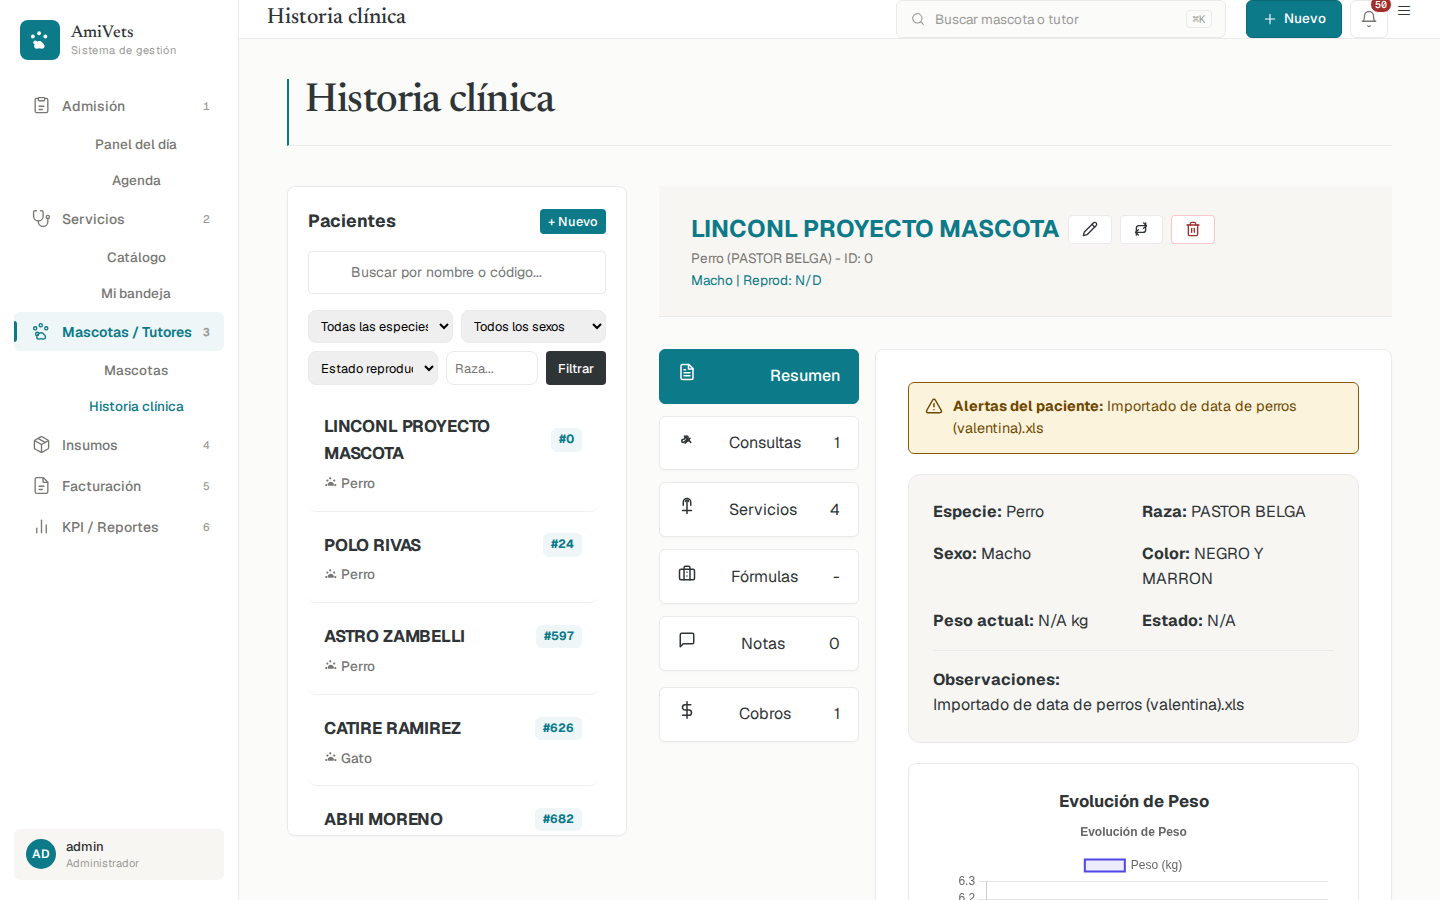
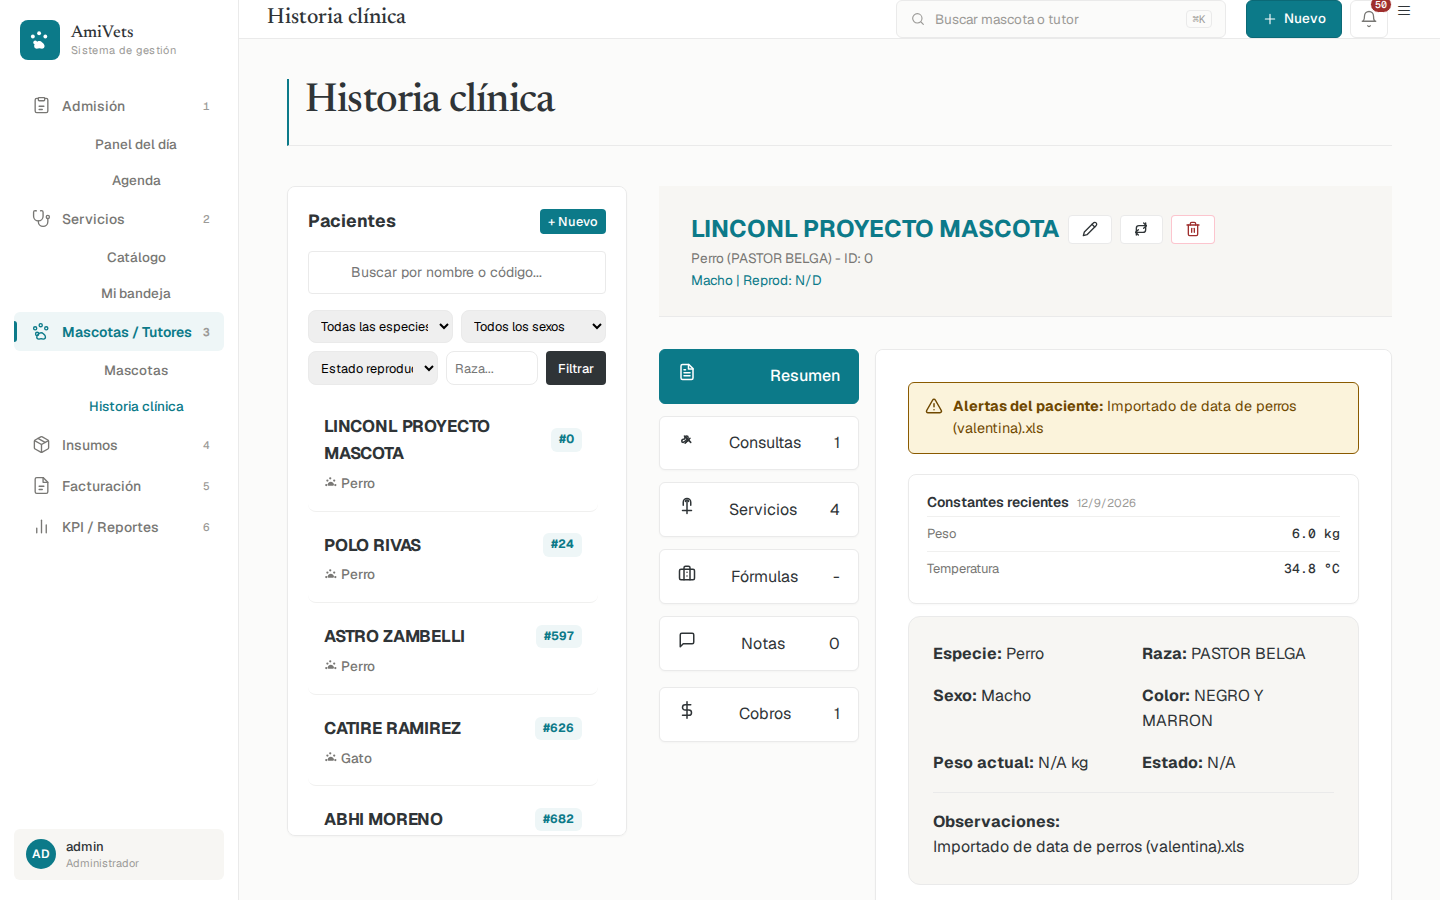
feat(consultorio): agrega "Constantes recientes" a la Ficha, dato real de la última consulta
Tarea 11 (revisión de bocetos): FichaMascota.html trae un panel
"Constantes recientes" (peso/temperatura/frecuencia cardíaca) que la
pantalla real no tenía. Consulta ya guarda los tres campos
(backend/app/models/models.py:143-145) -- no hacía falta ningún cambio
de modelo, solo tomar la consulta no anulada más reciente que tenga
al menos uno cargado (GET /consultas/?mascota_id, no todas las
consultas registran los tres).

Es una mejora acotada y aditiva sobre la pestaña "Resumen" existente,
no la reestructuración completa de sec-consultorio (que reemplazaría
el layout de 3 columnas + tabs de íconos actual por el de
FichaMascota.html: header + tabs Historia clínica/Órdenes/Vacunas y
desparasitación/Archivos/Tutor). Esa reestructuración queda como
desvío confirmado y no corregido en docs/revision-integral-11.md: es
un archivo de 2529 líneas con formularios clínicos reales (vacunación,
cirugía, hospitalización, pruebas) para 318 pacientes reales, y
tocarlo entero bajo presión de tiempo es más riesgo del que vale.

"Alergia" del boceto no se copia: no hay campo de alergias en el
modelo (Mascota.observaciones es texto libre general, no un campo
dedicado).

Verificado con captura real (docs/diseno/capturas/revision-11/
ficha-mascota-app.png, datos reales: 6.0 kg / 34.8°C de una consulta
real) y clinico.spec.js + notas.spec.js (12/12) sin regresiones.

diff --git a/static/js/sections/consultorio.js b/static/js/sections/consultorio.js
@@ -1440,6 +1440,7 @@ const switchPetTab = (rawTabName) => {
         case 'resumen':
             contentArea.innerHTML = `
                 <div id="resumenAlertas"></div>
+                <div id="resumenConstantes"></div>
                 <div id="historiaResumen" style="width: 100%; text-align: left;"></div>
                 <div style="background: var(--surface); border: 1px solid var(--border); border-radius: var(--radius-lg); padding: 1.5rem; margin-top: 1.25rem;">
                     <h3 style="margin-top: 0; color: var(--text-primary); text-align: center; font-size: 1.05rem;">Evolución de Peso</h3>
@@ -1564,9 +1565,49 @@ const renderHistoriaTab = async () => {
 
 // Tarea 09: "Resumen" funde la vieja pestaña "Historia Clínica" + "Evol. Peso" +
 // una franja de alertas del paciente (observaciones) arriba de todo.
+// Tarea 11 (revisión de bocetos, FichaMascota.html): "Constantes recientes"
+// (peso/temperatura/frecuencia cardíaca de la última consulta que las
+// registró). Reusa GET /consultas/?mascota_id -- no hay endpoint de
+// "últimas constantes", así que se pide un lote reciente y se toma la
+// primera fila con al menos un valor cargado (no todas las consultas
+// registran los tres). "Alergia" del boceto no se copia: no hay campo de
+// alergias en el modelo (Mascota.observaciones es texto libre general, no
+// un campo dedicado) -- ver docs/revision-integral-11.md, pendientes.
+const renderConstantesRecientes = async () => {
+    const box = document.getElementById('resumenConstantes');
+    if (!box || !currentMascotaId) return;
+    try {
+        const consultas = await fetchAPI(`/consultas/?mascota_id=${currentMascotaId}&limit=10`);
+        const ordenadas = (consultas || [])
+            .filter(c => c.estado !== 'ANULADA')
+            .sort((a, b) => new Date(b.fecha_consulta) - new Date(a.fecha_consulta));
+        const conConstantes = ordenadas.find(c => c.peso != null || c.temperatura != null || c.frecuencia_cardiaca != null);
+        if (!conConstantes) { box.innerHTML = ''; return; }
+
+        const fila = (label, valor) => valor == null ? '' : `
+            <div style="display:flex; justify-content:space-between; padding:7px 0; border-top:1px solid var(--border-light); font-size:13px;">
+                <span style="color:var(--text-secondary);">${label}</span>
+                <span style="font-family:var(--font-mono); font-weight:500;">${valor}</span>
+            </div>`;
+        box.innerHTML = `
+            <div style="background:var(--surface); border:1px solid var(--border); border-radius:8px; box-shadow:0 1px 2px rgba(0,0,0,.03); padding:16px 18px; margin-bottom:0.75rem;">
+                <div style="display:flex; align-items:baseline; gap:8px; margin-bottom:2px;">
+                    <span style="font-size:14px; font-weight:600;">Constantes recientes</span>
+                    <span style="font-size:11.5px; color:var(--text-muted);">${new Date(conConstantes.fecha_consulta).toLocaleDateString('es-AR')}</span>
+                </div>
+                ${fila('Peso', conConstantes.peso != null ? `${Number(conConstantes.peso).toFixed(1)} kg` : null)}
+                ${fila('Temperatura', conConstantes.temperatura != null ? `${Number(conConstantes.temperatura).toFixed(1)} °C` : null)}
+                ${fila('Frec. cardíaca', conConstantes.frecuencia_cardiaca != null ? `${Number(conConstantes.frecuencia_cardiaca).toFixed(0)} lpm` : null)}
+            </div>`;
+    } catch (_) {
+        box.innerHTML = '';
+    }
+};
+
 const renderResumenTab = async () => {
     const alertBox = document.getElementById('resumenAlertas');
     renderHistoriaTab();
+    renderConstantesRecientes();
     if (!alertBox) return;
     try {
         const m = await fetchAPI(`/mascotas/${currentMascotaId}`);
